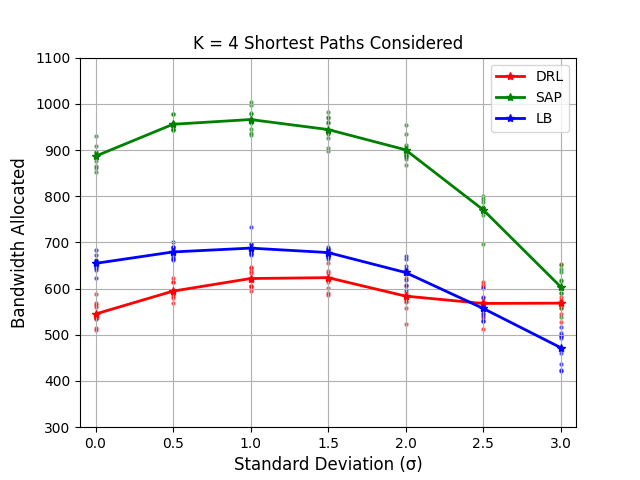
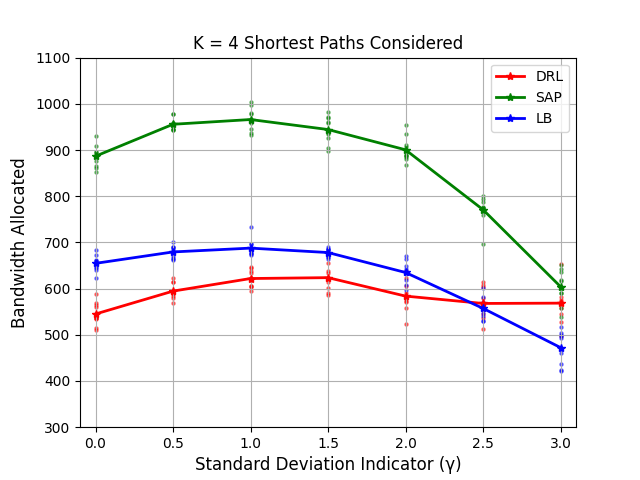
Figures update

Changed region(s): [[0.3125, 0.9375, 0.7188, 1.0]]

diff --git a/DQN/evaluate_DQN.py b/DQN/evaluate_DQN.py
@@ -27,12 +27,12 @@ tf.random.set_seed(1)
 # tf.config.threading.set_inter_op_parallelism_threads(1)
 # tf.config.threading.set_intra_op_parallelism_threads(1)
 
-NUMBER_EPISODES = 10
+NUMBER_EPISODES = 50
 # We assume that the number of samples is always larger than the number of demands any agent can ever allocate
 NUM_SAMPLES_EPSD = 100
 
 # Set evaluation topology
-graph_topology = 0 # 0==NSFNET, 1==GEANT2, 2==Small Topology, 3==GBN
+graph_topology = 1 # 0==NSFNET, 1==GEANT2, 2==Small Topology, 3==GBN
 # NEW! 4 == Random Graph
 
 listofDemands = [8, 32, 64]
@@ -350,6 +350,8 @@ def exec_lb_model_episodes(experience_memory, graph_topology):
         link_u.append(i)
         link_v.append(j)
     link_count = [0 for i in range(len(link_u))]
+    print(link_u)
+    print(link_v)
 
     agent = LBAgent()
     rewards_lb = np.zeros(NUMBER_EPISODES)

diff --git a/DQN/draw.py b/DQN/draw.py
@@ -1,7 +1,7 @@
 import matplotlib.pyplot as plt
 import os
 
-f = open("./result_logs/results_orig_diff_capa.txt", "r") #_orig_diff_capa
+f = open("./result_logs/results.txt", "r") #_orig_diff_capa
 
 num = []
 
@@ -11,7 +11,7 @@ for line in f:
     num.append(a)
 
 cnt = 1
-for k in [4, 8]:
+for k in [4, 6, 8, 10]:
     x = []
     drl = []
     sap = []
@@ -60,7 +60,7 @@ for k in [4, 8]:
     plt.xlim([-0.1, 3.1])
     plt.ylim([300, 1100])
     
-    plt.xlabel('Standard Deviation (\u03C3)', fontsize=12)
+    plt.xlabel('Standard Deviation Indicator (\u03B3)', fontsize=12)
     plt.ylabel('Bandwidth Allocated', fontsize=12)
     
     plt.title('K = {} Shortest Paths Considered'.format(k))
